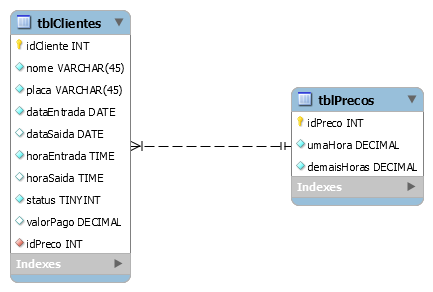
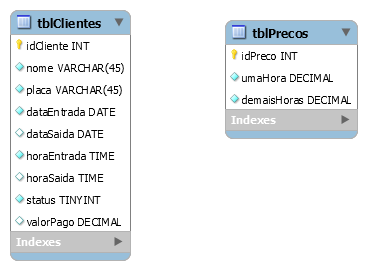
Criação do Model e Controller da saída.

Changed region(s): [[0.0, 0.0296, 0.9891, 0.9778], [0.5995, 0.0593, 0.9891, 0.237]]

diff --git a/frontend/index.html b/frontend/index.html
@@ -21,10 +21,10 @@
                 <form class="formCadastro">
                     <label for="nome">Nome</label>
                     <input maxlength="17" id="nome" data-index="" type="text" placeholder="Ex .: José da silva"
-                        required />
+                        required autocomplete="off" />
                     <label for="placaDoCarro">Placa do carro</label>
                     <input id="placaDoCarro" pattern="\D{3}-?\d{4}" maxlength="8" placeholder="Ex .: CHE-5729"
-                        type="text" required />
+                        type="text" required autocomplete="off"/>
                 </form>
                 <footer>
                     <button id="btnSalvar" class="btnVerde">Salvar</button>
@@ -76,10 +76,10 @@
             </form>
 
             <footer class="modal-footer btnTres">
+                <button type="button" class="btnExcluir" id="cancelarComprovanteEntrada">Apagar registro</button>
+                <button type="submit" class="btnVerde" id="btnImprimirComprovanteEntrada">Imprimir</button>
                 <button type="submit" class="btnAmarelo" id="fecharModal">Fechar</button>
 
-                <button type="submit" class="btnVerde" id="btnImprimirComprovanteEntrada">Imprimir</button>
-                <button type="button" class="btnExcluir" id="cancelarComprovanteEntrada">Apagar registro</button>
             </footer>
         </div>
     </div>
@@ -136,11 +136,11 @@
             </header>
             <form class="formInputMaterializado form" id="form">
                 <div class="input-container">
-                    <input class="input" type="text" required id="umaHoraPreco" />
+                    <input class="input" type="text" required id="umaHoraPreco" autocomplete="off" />
                     <label class="label  margin-top-input" for="umaHoraPreco">Até 1 hora estacionado</label>
                 </div>
                 <div class="input-container">
-                    <input class="input" type="text" id="precoAteUmaHora" required />
+                    <input class="input" type="text" id="precoAteUmaHora" required  autocomplete="off"/>
                     <label class="label inputSengundoAdiante" for="precoAteUmaHora">Após 1 Hora</label>
                 </div>
                 <br><br><br>
@@ -162,12 +162,12 @@
 
             <form class="formInputMaterializado">
                 <div class="input-container">
-                    <input id="nomeEditar" data-index="" class="input" type="text" required />
+                    <input id="nomeEditar" data-index="" class="input" type="text" required  autocomplete="off"/>
                     <label class="label margin-top-input" for="nomeEditar">Nome</label>
                 </div>
                 <div class="input-container">
-                    <input id="placaEditar" class="input" pattern="\D{3}-?\d{4}" maxlength="8" type="text" required />
-                    <label class="label inputSengundoAdiante" for="placaEditar">Placa do carro</label>
+                    <input id="placaEditar" class="input" pattern="\D{3}-?\d{4}" maxlength="8" type="text" required autocomplete="off" />
+                    <label class="label inputSengundoAdiante" for="placaEditar" >Placa do carro</label>
                 </div>
                 <div class="input-container">
                     <input id="dataEditar" class="input disabledInput" type="text" required />

diff --git a/frontend/resources/js/main.js b/frontend/resources/js/main.js
@@ -313,10 +313,11 @@ const deleteClient = async (index) => {
 
     const url = "http://api.fastparking.com.br/clientes"
     const data = await getContact(url)
+
     const clientEqualId = data.filter(data => data.idCliente == index)
 
     const reasonToDelete = prompt(`Por qual motivo deseja deletar ${clientEqualId[0].nome}?`)
-    const resp = reasonToDelete == '' ? alert("Informe um motivo!") : confirm(`Confirma que o motivo da exclusão é ${reasonToDelete}`)
+    const resp = reasonToDelete.length < 3 ? alert("Informe um motivo!") : confirm(`Confirma que o motivo da exclusão é ${reasonToDelete}`)
 
     if (resp) {
         const options = {

diff --git a/backend/App/Controllers/Clientes.php b/backend/App/Controllers/Clientes.php
@@ -3,33 +3,37 @@ session_start();
 
 use App\Core\Controller;
 
-class Clientes extends Controller {
-    
-    public function index() {
+class Clientes extends Controller
+{
+
+    public function index()
+    {
         $clienteModel = $this->model("Cliente");
         $dados = $clienteModel->listarTodos();
-     
+
         echo json_encode($dados, JSON_UNESCAPED_UNICODE);
     }
 
-    public function find($id){
+    public function find($id)
+    {
         $clienteModel = $this->model("Cliente");
         $clienteModel = $clienteModel->buscarPorId($id);
 
-        if($clienteModel){
+        if ($clienteModel) {
 
-            echo json_encode($clienteModel, JSON_UNESCAPED_UNICODE);
- 
-         }else{
-             http_response_code(404);
- 
-             $erro = ["erro" => "Cliente não encontrado"];
-             
-             echo json_encode($erro, JSON_UNESCAPED_UNICODE);
-         }
+
+
+        } else {
+            http_response_code(404);
+
+            $erro = ["erro" => "Cliente não encontrado"];
+
+            echo json_encode($erro, JSON_UNESCAPED_UNICODE);
+        }
     }
 
-    public function store() {
+    public function store()
+    {
         $json = file_get_contents("php://input");
 
         $novoCliente = json_decode($json);
@@ -42,56 +46,60 @@ class Clientes extends Controller {
         if ($clienteModel) {
             http_response_code(201);
             echo json_encode($clienteModel);
-        }else{
+        } else {
             http_response_code(500);
             echo json_encode(["erro" => "Problemas ao inserir cliente"]);
         }
     }
 
-    public function delete($id){
+    public function delete($id)
+    {
         $clienteModel = $this->model("Cliente");
-  
+
         $clienteModel = $clienteModel->buscarPorId($id);
-  
-        if(!$clienteModel){
-              http_response_code(404);
-              echo json_encode(["erro" => "Cliente não encontrado"]);
-              exit;
+
+        if (!$clienteModel) {
+            http_response_code(404);
+            echo json_encode(["erro" => "Cliente não encontrado"]);
+            exit;
         }
 
-        if($clienteModel->deletar()){
+        if ($clienteModel->deletar()) {
             http_response_code(204);
-        }else{
+        } else {
             http_response_code(500);
             echo json_encode(["erro" => "Problemas ao excluir esse cliente"]);
         }
     }
 
-    public function update($id){
+    public function update($id)
+    {
         $json = file_get_contents("php://input");
 
         $clienteEditar = json_decode($json);
 
         $clienteModel = $this->model("Cliente");
 
-        if(!$clienteModel){
+        if (!$clienteModel) {
             http_response_code(404);
             echo json_encode(["erro" => "Cliente não encontrado"]);
             exit;
         }
-            
+
+
         $clienteModel->id = $id;
         $clienteModel->nome = $clienteEditar->nome;
         $clienteModel->placa = $clienteEditar->placa;
         $clienteModel->valorPago = $clienteEditar->valorPago;
-           
-        if($clienteModel->atualizar()){
+
+        if ($clienteModel->atualizar()) {
             http_response_code(204);
 
-        }else{
+        } else {
             http_response_code(500);
             echo json_encode(["erro" => "Problemas ao atualizar o cliente"]);
         }
     }
+
 
 }

diff --git a/backend/App/Controllers/Saidas.php b/backend/App/Controllers/Saidas.php
@@ -1,0 +1,65 @@
+<?php
+session_start();
+
+use App\Core\Controller;
+
+class Saidas extends Controller {
+
+    public function calculaPreco($id) {
+
+        $clienteSaida = $this->model("Saida");
+        $dados = $clienteSaida->getDadosValorApagar($id);
+
+        $precoModel = $this->model("Preco");
+        $dadosPreco = $precoModel->listarTodos();
+
+        $totalDias = $dados[0]->totalDiasEstacionado;
+        $totalHoras = $dados[0]->totalHorasEstacionado;
+
+        $precoUmaHora = $dadosPreco[0]->umaHora;
+        $precoDemaisHoras = $dadosPreco[0]->demaisHoras;
+
+
+        var_dump($totalHoras);
+        if ($totalDias == 0) {
+            if (strtotime($totalHoras)  <= strtotime("1:00:00")) {
+                return $precoUmaHora;
+            } else {
+                $valorPagar = $precoDemaisHoras * (idate('H' , strtotime($totalHoras)) - 1) + $precoUmaHora;
+                return $valorPagar;
+            }
+        }
+    }
+
+    public function find($id) {
+        $this->calculaPreco($id);
+    }
+
+    public function update($id) {
+        $json = file_get_contents("php://input");
+
+        $clienteSaida = json_decode($json);
+
+        $clienteSaida = $this->model("Saida");
+
+        if (!$clienteSaida) {
+            http_response_code(404);
+            echo json_encode(["erro" => "Cliente não encontrado"]);
+            exit;
+        }
+              
+        $clienteSaida->id = $id;
+        $clienteSaida->valorPago = $this->calculaPreco($id);
+
+        if ($clienteSaida->saidaCliente()) {
+            http_response_code(204);
+
+        } else {
+            http_response_code(500);
+            echo json_encode(["erro" => "Problemas ao fazer a saída do cliete"]);
+        }
+    }
+
+    
+
+}

diff --git a/backend/App/Models/Cliente.php b/backend/App/Models/Cliente.php
@@ -65,14 +65,13 @@ class Cliente
     {
 
         $sql = " INSERT INTO tblClientes 
-                (nome, placa, dataEntrada, horaEntrada, status, idPreco) 
-                VALUES (?, ucase(?), current_date(), curtime(), ?, ?) ";
+                (nome, placa, dataEntrada, horaEntrada, status) 
+                VALUES (?, ucase(?), current_date(), curtime(), ? ) ";
 
         $stmt = Model::getConn()->prepare($sql);
         $stmt->bindValue(1, $this->nome);
         $stmt->bindValue(2, $this->placa);
         $stmt->bindValue(3, 0);
-        $stmt->bindValue(4, 1);
 
         if ($stmt->execute()) {
             $this->id = Model::getConn()->lastInsertId();
@@ -92,22 +91,12 @@ class Cliente
 
     public function atualizar()
     {
-
-        if ($this->nome != null) {
-
-            $sql = " UPDATE tblClientes SET 
+        $sql = " UPDATE tblClientes SET 
             nome = ?, placa = ? WHERE idCliente = ? ";
-            $stmt = Model::getConn()->prepare($sql);
-            $stmt->bindValue(1, $this->nome);
-            $stmt->bindValue(2, $this->placa);
-            $stmt->bindValue(3, $this->id);
-
-        } else {
-            $sql = " UPDATE tblClientes SET dataSaida = current_date(), horaSaida = curtime(), status = 1, valorPago = ? WHERE idCliente = ? ";
-            $stmt = Model::getConn()->prepare($sql);
-            $stmt->bindValue(1, $this->valorPago);
-            $stmt->bindValue(2, $this->id);
-        }
+        $stmt = Model::getConn()->prepare($sql);
+        $stmt->bindValue(1, $this->nome);
+        $stmt->bindValue(2, $this->placa);
+        $stmt->bindValue(3, $this->id);
 
         return $stmt->execute();
     }

diff --git a/backend/App/Models/Saida.php b/backend/App/Models/Saida.php
@@ -1,0 +1,35 @@
+<?php
+
+use App\Core\Model;
+
+
+class Saida
+{
+    public $id;
+    public $valorPago;
+
+    public function getDadosValorApagar($id)
+    {
+        $sql = " SELECT datediff(dataEntrada, dataSaida) as totalDiasEstacionado, timediff(horaSaida, horaEntrada) as totalHorasEstacionado from tblClientes WHERE idCliente = ? ";
+
+        $stmt = Model::getConn()->prepare($sql);
+        $stmt->bindValue(1, $id);
+        $stmt->execute();
+
+        if ($stmt->rowCount() > 0) {
+            $resultado = $stmt->fetchAll(\PDO::FETCH_OBJ);
+            return $resultado;
+        } else {
+            return "Cliente não encontrado";
+        }
+    }
+
+    public function saidaCliente()
+    {
+        $sql = " UPDATE tblClientes SET dataSaida = current_date(), horaSaida = curtime(), status = 1, valorPago = ? WHERE idCliente = ? ";
+        $stmt = Model::getConn()->prepare($sql);
+        $stmt->bindValue(1, $this->valorPago);
+        $stmt->bindValue(2, $this->id);
+        return $stmt->execute();
+    }
+}

diff --git a/backend/App/Models/Preco.php b/backend/App/Models/Preco.php
@@ -9,7 +9,7 @@ class Preco {
     public $demaisHoras;
 
     public function listarTodos() {
-        $sql = " SELECT * FROM tblPrecos";
+        $sql = " SELECT * FROM tblPrecos ";
 
         $stmt = Model::getConn()->prepare($sql);
         $stmt->execute();
